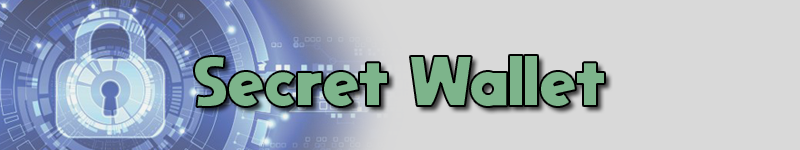
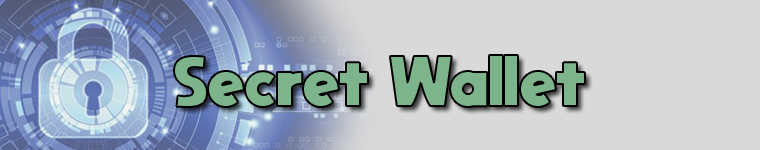
Updated GUI images, added Help and About, upgraded Store and Retrieve windows

Changed region(s): [[0.0, 0.0, 0.7868, 1.0]]

diff --git a/SecretWallet.py b/SecretWallet.py
@@ -12,14 +12,14 @@ DEFAULT_STATUS = "Select \'Store\' in order to store, " \
                  "or select \'Retrieve\' in order to retrieve."
 STORE_TITLE = "Store"
 RETRIEVE_TITLE = "Retrieve"
-NAME_LABEL = "Name"
-KEY_LABEL = "Key"
-VALUE_LABEL = "Value"
+NAME_LABEL = "Name:"
+KEY_LABEL = "Key:"
+VALUE_LABEL = "Value:"
 ERROR_TITLE = "Error"
 HELP_TITLE = "Help"
 ABOUT_TITLE = "About"
-EMPTY_ENTRY_ERROR = "Cannot store empty entries"
-NAME_ERROR = "Name is already stored"
+EMPTY_ENTRY_ERROR = "Error: Empty entries"
+NAME_ERROR = "Error: Name is already stored"
 INVALID_NAME_ERROR = "Invalid Name"
 INVALID_KEY_ERROR = "Invalid Key"
 STORE_SUCCESS_MSG = "Successfully Stored!"
@@ -31,13 +31,14 @@ RETRIEVE_FAILURE_MSG = "Retrieve Failed."
 TITLE_IMAGE = "Title.png"
 STORE_IMAGE = "Store.png"
 RETRIEVE_IMAGE = "Retrieve.png"
+SUB_TITLE_IMAGE = "SubTitle.png"
 
 BAD_STATUS_COLOR = 'red'
 GOOD_STATUS_COLOR = 'green'
 DEFAULT_STATUS_COLOR = 'black'
 
 EMPTY_ENTRY = ""
-WINDOW_SIZE = '800x400'
+WINDOW_SIZE = '760x400'
 STATUS_TIMEOUT = 4000
 
 
@@ -45,7 +46,7 @@ class ClientGUI:
 
     def __init__(self, master):
         """ Initialize the GUI window for the client. """
-        self.__transactions = dict()
+        self.__transactions = {'1': ('2', '3')}
 
         self.__master = master
         self.__status = tk.Label(master, text=DEFAULT_STATUS)
@@ -67,9 +68,11 @@ class ClientGUI:
     def __create_sub_title(self):
         """ Creates the secondary title of the main window. """
         sub_title_frame = tk.Frame(self.__master)
-        tk.Label(sub_title_frame, height=2).pack()
-        tk.Label(sub_title_frame, text="Please select action...",
-                 font=('Verdana', 15), height=2).pack()
+        sub_title_image = tk.PhotoImage(file=SUB_TITLE_IMAGE)
+        sub_title = tk.Label(sub_title_frame, image=sub_title_image)
+        sub_title.image = sub_title_image  # Required for displaying the image.
+        sub_title.pack()
+
         sub_title_frame.pack()
 
     def __create_status_bar(self):
@@ -158,46 +161,68 @@ class ClientGUI:
         store_window.title(STORE_TITLE)
         store_window.resizable(False, False)
 
-        transaction_label = tk.Label(store_window, text=NAME_LABEL)
-        key_label = tk.Label(store_window, text=KEY_LABEL)
-        value_label = tk.Label(store_window, text=VALUE_LABEL)
+        transaction_frame = tk.Frame(store_window)
+        transaction_label = tk.Label(transaction_frame, width=10, text=NAME_LABEL, anchor='w')
+        transaction_entry = tk.Entry(transaction_frame, width=30)
+        transaction_frame.pack(side=tk.TOP, fill=tk.X, padx=3, pady=3)
+        transaction_label.pack(side=tk.LEFT)
+        transaction_entry.pack(side=tk.RIGHT, fill=tk.X, expand=tk.YES)
 
-        transaction_entry = tk.Entry(store_window)
-        key_entry = tk.Entry(store_window)
-        value_entry = tk.Entry(store_window)
+        key_frame = tk.Frame(store_window)
+        key_label = tk.Label(key_frame, width=10, text=KEY_LABEL, anchor='w')
+        key_entry = tk.Entry(key_frame, width=30)
+        key_frame.pack(side=tk.TOP, fill=tk.X, padx=3, pady=3)
+        key_label.pack(side=tk.LEFT)
+        key_entry.pack(side=tk.RIGHT, fill=tk.X, expand=tk.YES)
 
-        transaction_label.grid(row=0)
-        key_label.grid(row=1)
-        value_label.grid(row=2)
-        transaction_entry.grid(row=0, column=1, columnspan=2)
-        key_entry.grid(row=1, column=1, columnspan=2)
-        value_entry.grid(row=2, column=1, columnspan=2)
+        value_frame = tk.Frame(store_window)
+        value_label = tk.Label(value_frame, width=10, text=VALUE_LABEL, anchor='w')
+        value_entry = tk.Entry(value_frame, width=30)
+        value_frame.pack(side=tk.TOP, fill=tk.X, padx=3, pady=3)
+        value_label.pack(side=tk.LEFT)
+        value_entry.pack(side=tk.RIGHT, fill=tk.X, expand=tk.YES)
+
+        info_label = tk.Label(store_window)
+        info_label.pack(fill=tk.X, expand=tk.YES)
 
         def store_command(transaction_id, key, value):
+            # Reset entries highlight.
+            transaction_entry.config(highlightbackground="grey")
+            key_entry.config(highlightbackground="grey")
+            value_entry.config(highlightbackground="grey")
+
+            # Highlight empty entries.
             if transaction_id == EMPTY_ENTRY or key == EMPTY_ENTRY or value == EMPTY_ENTRY:
-                tkinter.messagebox.showerror(ERROR_TITLE, EMPTY_ENTRY_ERROR)
-                transaction_entry.config(highlightbackground="red")
+                if transaction_id == EMPTY_ENTRY:
+                    transaction_entry.config(highlightbackground="red")
+                if key == EMPTY_ENTRY:
+                    key_entry.config(highlightbackground="red")
+                if value == EMPTY_ENTRY:
+                    value_entry.config(highlightbackground="red")
+
+                info_label.config(text=EMPTY_ENTRY_ERROR, fg='red')
                 self.__status_change(STORE_FAILURE_MSG, True)
-                store_window.destroy()
                 return
 
             if transaction_id in self.__transactions.keys():
-                tkinter.messagebox.showerror(ERROR_TITLE, NAME_ERROR)
+                info_label.config(text=NAME_ERROR, fg='red')
                 self.__status_change(STORE_FAILURE_MSG, True)
-                store_window.destroy()
                 return
 
             self.__transactions[transaction_id] = (key, value)
-            tkinter.messagebox.showinfo(message=STORE_SUCCESS_MSG)
+            info_label.config(text=STORE_SUCCESS_MSG, fg='green')
             self.__status_change(STORE_SUCCESS_MSG)
-            store_window.destroy()
 
-        tk.Button(store_window, text='Store',
-                  command=lambda: store_command(transaction_entry.get(),
-                                                key_entry.get(),
-                                                value_entry.get())).grid(row=3, column=1)
-        tk.Button(store_window, text='Cancel',
-                  command=store_window.destroy).grid(row=4, column=1)
+        button_frame = tk.Frame(store_window)
+        store_button = tk.Button(button_frame, text='Store',
+                                 command=lambda: store_command(transaction_entry.get(),
+                                                               key_entry.get(),
+                                                               value_entry.get()))
+        cancel_button = tk.Button(button_frame, text='Cancel',
+                                  command=store_window.destroy)
+        button_frame.pack(side=tk.TOP, fill=tk.X, padx=3, pady=3)
+        store_button.pack()
+        cancel_button.pack()
 
         print(self.__transactions)
 
@@ -206,43 +231,72 @@ class ClientGUI:
         retrieve_window.title(RETRIEVE_TITLE)
         retrieve_window.resizable(False, False)
 
-        transaction_label = tk.Label(retrieve_window, text=NAME_LABEL)
-        key_label = tk.Label(retrieve_window, text=KEY_LABEL)
+        transaction_frame = tk.Frame(retrieve_window)
+        transaction_label = tk.Label(transaction_frame, width=10,
+                                     text=NAME_LABEL, anchor='w')
+        transaction_entry = tk.Entry(transaction_frame, width=30)
+        transaction_frame.pack(side=tk.TOP, fill=tk.X, padx=3, pady=3)
+        transaction_label.pack(side=tk.LEFT)
+        transaction_entry.pack(side=tk.RIGHT, fill=tk.X, expand=tk.YES)
 
-        transaction_entry = tk.Entry(retrieve_window)
-        key_entry = tk.Entry(retrieve_window)
+        key_frame = tk.Frame(retrieve_window)
+        key_label = tk.Label(key_frame, width=10, text=KEY_LABEL, anchor='w')
+        key_entry = tk.Entry(key_frame, width=30)
+        key_frame.pack(side=tk.TOP, fill=tk.X, padx=3, pady=3)
+        key_label.pack(side=tk.LEFT)
+        key_entry.pack(side=tk.RIGHT, fill=tk.X, expand=tk.YES)
 
-        transaction_label.grid(row=0)
-        key_label.grid(row=1)
-        transaction_entry.grid(row=0, column=1, columnspan=2)
-        key_entry.grid(row=1, column=1, columnspan=2)
-
+        value_frame = tk.Frame(retrieve_window)
+        value_label = tk.Label(value_frame, width=10, text=VALUE_LABEL,
+                               anchor='w')
         value_string = tk.StringVar()
-        tk.Label(retrieve_window, textvariable=value_string, fg='red').grid(row=2, column=1)
+        value_entry = tk.Entry(value_frame, width=30, fg='black', state=tk.DISABLED, textvariable=value_string)
+        value_frame.pack(side=tk.TOP, fill=tk.X, padx=3, pady=3)
+        value_label.pack(side=tk.LEFT)
+        value_entry.pack(side=tk.RIGHT, fill=tk.X, expand=tk.YES)
+
+        info_label = tk.Label(retrieve_window)
+        info_label.pack(fill=tk.X, expand=tk.YES)
 
         def retrieve_command(transaction_id, key):
+            # Reset entries highlight.
+            transaction_entry.config(highlightbackground="grey")
+            key_entry.config(highlightbackground="grey")
+
+            # Highlight empty entries.
+            if transaction_id == EMPTY_ENTRY or key == EMPTY_ENTRY:
+                if transaction_id == EMPTY_ENTRY:
+                    transaction_entry.config(highlightbackground="red")
+                if key == EMPTY_ENTRY:
+                    key_entry.config(highlightbackground="red")
+
+                info_label.config(text=EMPTY_ENTRY_ERROR, fg='red')
+                self.__status_change(RETRIEVE_FAILURE_MSG, True)
+                return
+
             if transaction_id not in self.__transactions.keys():
+                info_label.config(text=INVALID_NAME_ERROR, fg='red')
                 tkinter.messagebox.showerror(ERROR_TITLE, INVALID_NAME_ERROR)
                 self.__status_change(RETRIEVE_FAILURE_MSG, True)
-                retrieve_window.destroy()
                 return
 
             real_key, real_value = self.__transactions[transaction_id]
             if key != real_key:
-                tkinter.messagebox.showerror(ERROR_TITLE,
-                                             INVALID_KEY_ERROR)
-
+                info_label.config(text=INVALID_KEY_ERROR, fg='red')
                 self.__status_change(RETRIEVE_FAILURE_MSG, True)
-                retrieve_window.destroy()
             else:
                 value_string.set(real_value)
                 self.__status_change(RETRIEVE_SUCCESS_MSG)
 
-        tk.Button(retrieve_window, text='Retrieve',
-                  command=lambda: retrieve_command(transaction_entry.get(),
-                                                   key_entry.get())).grid(row=3, column=1)
-        tk.Button(retrieve_window, text='Cancel',
-                  command=retrieve_window.destroy).grid(row=4, column=1)
+        button_frame = tk.Frame(retrieve_window)
+        store_button = tk.Button(button_frame, text='Retrieve',
+                                 command=lambda: retrieve_command(transaction_entry.get(),
+                                                                  key_entry.get()))
+        cancel_button = tk.Button(button_frame, text='Cancel',
+                                  command=retrieve_window.destroy)
+        button_frame.pack(side=tk.TOP, fill=tk.X, padx=3, pady=3)
+        store_button.pack()
+        cancel_button.pack()
 
         print(self.__transactions)
 
